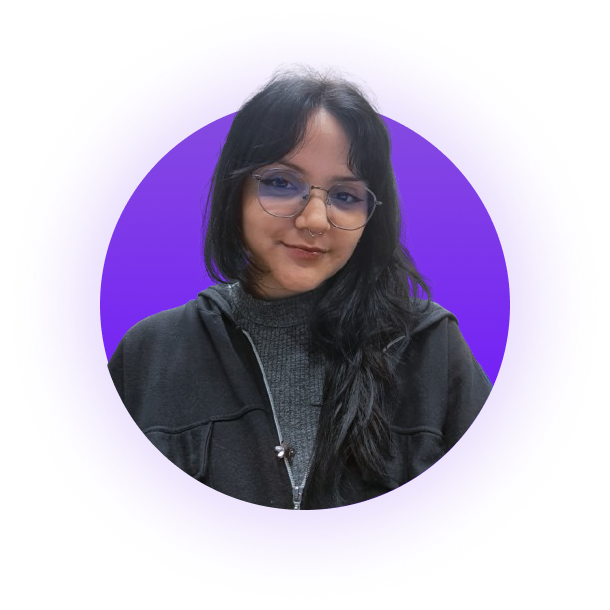
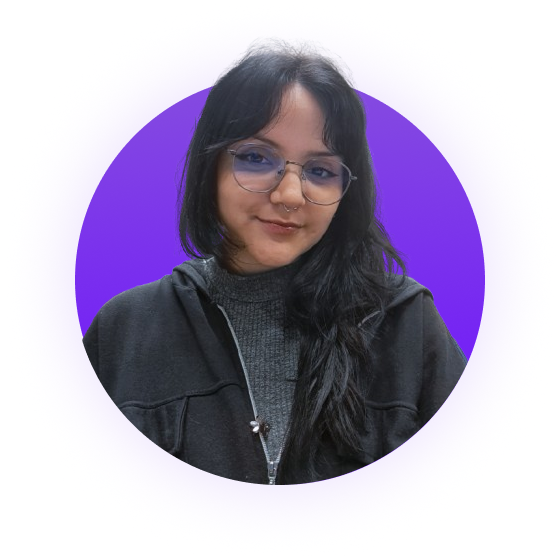
update: hero layout and design

Changed region(s): [[0.1214, 0.0607, 0.8804, 0.8804]]

diff --git a/src/sections/Skills.jsx b/src/sections/Skills.jsx
@@ -1,8 +1,8 @@
 import { useTranslation } from 'react-i18next'
 import { Link, Element } from 'react-scroll'
 
-import { FaCode, FaDatabase, FaAngleDown } from 'react-icons/fa6'
-import { VscSymbolColor } from 'react-icons/vsc'
+import { FaCode, FaDatabase } from 'react-icons/fa6'
+import { IoColorPalette } from 'react-icons/io5'
 import { IoSettingsSharp } from 'react-icons/io5'
 
 const Skills = () => {
@@ -13,7 +13,7 @@ const Skills = () => {
   return (
     <Element
       name={actionLink[1]}
-      className="flex flex-col items-center md:items-start gap-6 py-13"
+      className="flex flex-col items-center gap-6 py-13 md:items-start"
     >
       <div className="md:flex md:justify-between">
         <h2 className="text-center md:text-left">
@@ -21,76 +21,76 @@ const Skills = () => {
           {skills.title}
         </h2>
         <p
-          className="md:w-4/12"
+          className="md:w-6/12"
           dangerouslySetInnerHTML={{ __html: skills.text }}
         ></p>
       </div>
 
-      <div className="flex flex-col gap-6 md:flex-row">
-        <div className="border-purple flex-1 rounded-md border-1 p-4">
+      <div className="mt-10 flex flex-col gap-20 md:flex-row md:gap-6">
+        <div className="bg-purple/15 relative flex-1 rounded-md px-6 pb-6">
+          <div className="bg-purple absolute top-[-30px] inline-block rounded-full p-4">
+            <FaCode size={32} />
+          </div>
           <div className="flex cursor-pointer justify-between">
-            <div className="bg-purple inline-block rounded-md p-2">
-              <FaCode size={22} />
-            </div>
             <div className="flex items-center gap-6">
-              <h3 className="uppercase">Frontend</h3>
-              <FaAngleDown />
+              <h3 className="mt-15 uppercase">Frontend</h3>
             </div>
           </div>
-          <ul className="mt-4 flex flex-col gap-3">
+          <ul>
             <li>JavaScript, TailwindCSS</li>
-            <li>React.JS, React Router, React Hook Form</li>
+            <li>ReactJS, React Router, React Hook Form</li>
             <li>{skills.frontendText}</li>
+            <li>{skills.frontendText2}</li>
           </ul>
         </div>
 
-        <div className="border-yellow flex-1 rounded-md border-1 p-4">
+        <div className="bg-purple/15 relative flex-1 rounded-md px-6 pb-6">
+          <div className="bg-purple absolute top-[-30px] inline-block rounded-full p-4">
+            <FaDatabase size={32} />
+          </div>
           <div className="flex cursor-pointer justify-between">
-            <div className="bg-yellow inline-block rounded-md p-2">
-              <FaDatabase size={22} />
-            </div>
             <div className="flex items-center gap-6">
-              <h3 className="uppercase">Backend</h3>
-              <FaAngleDown />
+              <h3 className="mt-15 uppercase">Backend</h3>
             </div>
           </div>
-          <ul className="mt-4 flex flex-col gap-3">
+          <ul>
             <li>Java (Spring Boot)</li>
-            <li>RESTful APIs</li>
+            <li>REST API</li>
             <li>Node.js</li>
             <li>MySQL, PostgreSQL, Firebase</li>
+            <li>{skills.backendText}</li>
           </ul>
         </div>
 
-        <div className="border-purple flex-1 rounded-md border-1 p-4">
+        <div className="bg-purple/15 relative flex-1 rounded-md px-6 pb-6">
+          <div className="bg-purple absolute top-[-30px] inline-block rounded-full p-4">
+            <IoColorPalette size={32} />
+          </div>
           <div className="flex cursor-pointer justify-between">
-            <div className="bg-purple inline-block rounded-md p-2">
-              <VscSymbolColor size={22} />
-            </div>
             <div className="flex items-center gap-6">
-              <h3 className="uppercase">{skills.design.title}</h3>
-              <FaAngleDown />
+              <h3 className="mt-15 uppercase">{skills.design.title}</h3>
             </div>
           </div>
-          <ul className="mt-4 flex flex-col gap-3">
+          <ul>
             <li>{skills.design.figma}</li>
+            <li>Wireframe</li>
             <li>{skills.design.usabilidade}</li>
             <li>Design Systems</li>
           </ul>
         </div>
 
-        <div className="border-yellow flex-1 rounded-md border-1 p-4">
+        <div className="bg-purple/15 relative flex-1 rounded-md px-6 pb-6">
+          <div className="bg-purple absolute top-[-30px] inline-block rounded-full p-4">
+            <IoSettingsSharp size={32} />
+          </div>
           <div className="flex cursor-pointer justify-between">
-            <div className="bg-yellow inline-block rounded-md p-2">
-              <IoSettingsSharp size={22} />
-            </div>
             <div className="flex items-center gap-6">
-              <h3 className="uppercase">{skills.other.title}</h3>
-              <FaAngleDown />
+              <h3 className="mt-15 uppercase">{skills.other.title}</h3>
             </div>
           </div>
-          <ul className="mt-4 flex flex-col gap-3">
+          <ul>
             <li>Git & GitHub</li>
+            <li>Wordpress</li>
             <li>{skills.other.agile}</li>
             <li>{skills.other.office}</li>
             <li>Canva, Photoshop, Illustrator</li>

diff --git a/src/components/Menu.jsx b/src/components/Menu.jsx
@@ -59,27 +59,52 @@ const Menu = () => {
       <nav className="hidden md:flex">
         <ul className="mr-7 flex gap-5 border-r pr-7 uppercase">
           <li>
-            <Link className='hover:bg-purple py-2 px-6 rounded-lg cursor-pointer' to={menuLinks[1]} smooth={true} duration={500}>
+            <Link
+              className="hover:bg-purple cursor-pointer rounded-lg px-6 py-2"
+              to={menuLinks[1]}
+              smooth={true}
+              duration={500}
+            >
               {menu.skills}
             </Link>
           </li>
           <li>
-            <Link className='hover:bg-purple py-2 px-6 rounded-lg cursor-pointer' to={menuLinks[2]} smooth={true} duration={500}>
+            <Link
+              className="hover:bg-purple cursor-pointer rounded-lg px-6 py-2"
+              to={menuLinks[2]}
+              smooth={true}
+              duration={500}
+            >
               {menu.projects}
             </Link>
           </li>
           <li>
-            <Link className='hover:bg-purple py-2 px-6 rounded-lg cursor-pointer' to={menuLinks[3]} smooth={true} duration={500}>
+            <Link
+              className="hover:bg-purple cursor-pointer rounded-lg px-6 py-2"
+              to={menuLinks[3]}
+              smooth={true}
+              duration={500}
+            >
               {menu.about}
             </Link>
           </li>
           <li>
-            <Link className='hover:bg-purple py-2 px-6 rounded-lg cursor-pointer' to={menuLinks[4]} smooth={true} duration={500}>
+            <Link
+              className="hover:bg-purple cursor-pointer rounded-lg px-6 py-2"
+              to={menuLinks[4]}
+              smooth={true}
+              duration={500}
+            >
               {menu.contact}
             </Link>
           </li>
           <li>
-            <a className='hover:bg-purple py-2 px-6 rounded-lg cursor-pointer' href="#LINK">{menu.resume}</a>
+            <a
+              className="hover:bg-purple cursor-pointer rounded-lg px-6 py-2"
+              href="#LINK"
+            >
+              {menu.resume}
+            </a>
           </li>
         </ul>
         <LanguageSelector />

diff --git a/src/sections/Hero.jsx b/src/sections/Hero.jsx
@@ -3,6 +3,7 @@ import { Link, Element } from 'react-scroll'
 
 import { IoIosArrowRoundUp } from 'react-icons/io'
 import myPhoto from '../assets/pamella-soto.png'
+import SocialMediaLinks from '../components/SocialMediaLinks'
 
 const Hero = () => {
   const { t } = useTranslation()
@@ -12,10 +13,10 @@ const Hero = () => {
   return (
     <Element
       name={navLinks[0]}
-      className="py-13 md:flex md:flex-row-reverse md:items-center md:justify-between"
+      className="py-13 md:flex md:items-center md:justify-between"
     >
-      <img src={myPhoto} className="hover:scale-105" />
-      <div>
+      <img src={myPhoto} className="md:hidden" />
+      <div className='md:w-2/3'>
         <h1 className="text-center md:text-left">
           <span>{hero.subtitle}</span>
           {hero.title}
@@ -46,6 +47,10 @@ const Hero = () => {
             <IoIosArrowRoundUp size={22} className="inline-block rotate-45" />
           </Link>
         </div>
+      </div>
+      <div className="hidden md:flex items-center">
+        <img src={myPhoto} className="hover:scale-105" />
+        <SocialMediaLinks css={'md:inline-flex md:flex-col ml-6 '} />
       </div>
     </Element>
   )

diff --git a/src/components/SocialMediaLinks.jsx b/src/components/SocialMediaLinks.jsx
@@ -2,16 +2,25 @@ import { TbBrandGithubFilled } from 'react-icons/tb'
 import { FaLinkedinIn } from 'react-icons/fa'
 import { FaXTwitter } from 'react-icons/fa6'
 
-const SocialMediaLinks = () => {
+const SocialMediaLinks = ({ css }) => {
   return (
-    <div className="inline-flex gap-6">
-      <a href="https://github.com/PamellaSoto">
+    <div className={`inline-flex gap-6 ${css}`}>
+      <a
+        className="rounded-full border-1 border-white/20 p-3 transition-all hover:scale-105 hover:border-white"
+        href="https://github.com/PamellaSoto"
+      >
         <TbBrandGithubFilled size={20} />
       </a>
-      <a href="https://www.linkedin.com/in/web-pamella-lopes/">
+      <a
+        className="rounded-full border-1 border-white/20 p-3 transition-all hover:scale-105 hover:border-white"
+        href="https://www.linkedin.com/in/web-pamella-lopes/"
+      >
         <FaLinkedinIn size={20} />
       </a>
-      <a href="">
+      <a
+        className="rounded-full border-1 border-white/20 p-3 transition-all hover:scale-105 hover:border-white"
+        href=""
+      >
         <FaXTwitter size={20} />
       </a>
     </div>

diff --git a/src/LandingPage.jsx b/src/LandingPage.jsx
@@ -15,11 +15,11 @@ const LandingPage = () => {
 
   return (
     <>
-      <header className="flex items-center justify-between px-5 pt-5 md:px-25 lg:px-35 sticky">
+      <header className="sticky flex items-center justify-between px-5 pt-5 md:px-15 lg:px-35">
         <p className="mb-0 md:text-xl">pamellasoto.dev</p>
         <Menu />
       </header>
-      <main className="divide-y divide-white/10 px-5 md:px-25 lg:px-70">
+      <main className="divide-y divide-white/10 px-5 md:px-15 lg:px-70">
         <Hero />
         <Skills />
         {/* <Projects /> */}
@@ -28,9 +28,9 @@ const LandingPage = () => {
           <Contact />
         </Element>
       </main>
-      <footer className="bg-purple">
+      <footer className="bg-purple flex flex-col items-center md:flex-row-reverse md:justify-between md:items-start py-4 px-5 md:px-15 lg:px-35">
         <SocialMediaLinks />
-        <p>{t('footer')}</p>
+        <p className='text-xs leading-relaxed text-center'>{t('footer')}</p>
       </footer>
     </>
   )

diff --git a/src/sections/About.jsx b/src/sections/About.jsx
@@ -9,8 +9,7 @@ const About = () => {
 
   return (
     <Element name={actionLink[3]} className="py-13 md:flex md:gap-10">
-
-      <div className='w-1/3'>
+      <div className="w-1/3">
         <img
           className="mt-6 rounded-lg"
           src="/src/assets/cat-lola-1.jpg"
@@ -18,7 +17,7 @@ const About = () => {
         />
         <p className="mt-4 text-xs italic">{about.cats}</p>
       </div>
-      <div className='w-2/3'>
+      <div className="w-2/3">
         <h2 className="mb-6 text-center md:text-left">
           <span>{about.subtitle}</span>
           {about.title}

diff --git a/src/index.css b/src/index.css
@@ -8,7 +8,7 @@
   --font-body: 'Space Mono', monospace;
 
   --color-new-black: #0e0e0f;
-  --color-purple: #6034a5;
+  --color-purple: #5534b2;
   --color-yellow: #f5e147;
 }
 
@@ -24,7 +24,7 @@
   }
 
   h1 {
-    @apply text-[2em] md:text-6xl;
+    @apply text-[2em] md:text-3xl lg:text-6xl;
   }
 
   h2 {
@@ -38,7 +38,7 @@
 
   p,
   li {
-    @apply mt-4 leading-relaxed;
+    @apply mt-4 leading-8;
   }
 }
 
